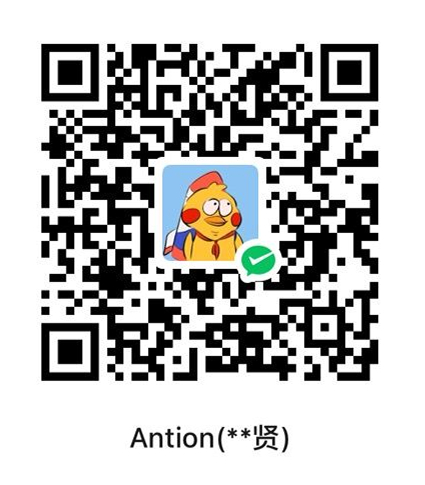
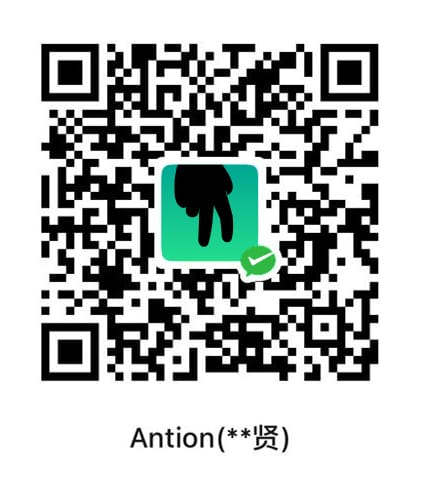
2345543

Changed region(s): [[0.3671, 0.3402, 0.6729, 0.5876]]

diff --git a/src/lib/Support.svelte b/src/lib/Support.svelte
@@ -1,5 +1,7 @@
 <script lang="ts">
   import Popup from "./components/Popup.svelte";
+  import Tab from "./components/Tab.svelte";
+  import type { TabItem } from "./components/Tab.svelte";
   import T from "./components/T.svelte";
   import { t } from "@/lib/utils/i18n";
 
@@ -7,20 +9,54 @@
     onclickClose: () => void;
   }
 
-  const wechatPayCode = {
-    image: "/support/wechat-qr.jpg",
-    tip: "微信",
-  } as const;
+  const supportWays = [
+    {
+      key: "wechat",
+      name: "微信",
+      image: "/support/wechat-qr.jpg",
+      tip: "微信",
+    },
+    {
+      key: "paypal",
+      name: "PayPal",
+      image: "/support/paypal-qr.jpg",
+      tip: "PayPal",
+    },
+  ] as const;
 
   let { onclickClose }: Props = $props();
+  let supportTabs: TabItem[] = $state(
+    supportWays.map((item, index) => ({
+      key: item.key,
+      name: item.name,
+      sel: index === 0,
+    })),
+  );
+  let currentSupportKey = $state<string>(supportWays[0].key);
+  let currentSupportWay = $derived(
+    supportWays.find((item) => item.key === currentSupportKey) ?? supportWays[0],
+  );
+
+  function clickSupportTab(tab: TabItem) {
+    if (tab.sel) return;
+    supportTabs.forEach((item) => {
+      item.sel = item.key === tab.key;
+    });
+    currentSupportKey = tab.key;
+  }
 </script>
 
 <Popup title={t("nt_about_support_button")} {onclickClose} type="m">
   <div class="wrap">
+    <Tab tabs={supportTabs} onclick={(tab) => clickSupportTab(tab)} />
     <div class="qr_box">
-      <img class="qr_img" src={wechatPayCode.image} alt={wechatPayCode.tip} />
+      <img
+        class="qr_img"
+        src={currentSupportWay.image}
+        alt={currentSupportWay.tip}
+      />
       <T align="c" type="s" color="var(--c-text-1)"
-        >{wechatPayCode.tip} {t("nt_support_scan_tip")}</T
+        >{currentSupportWay.tip} {t("nt_support_scan_tip")}</T
       >
     </div>
   </div>
